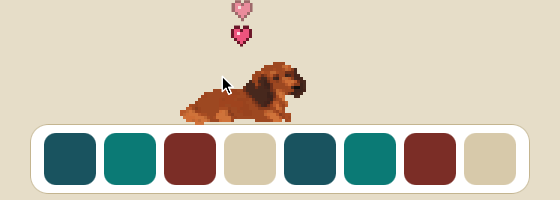
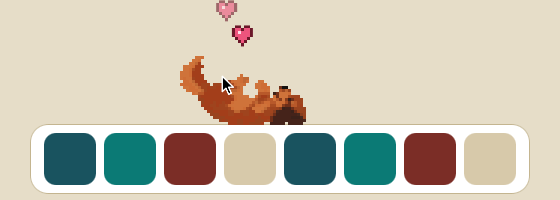
Web a README na verzi 1.0.3 (0,8 MB, novy SHA-256)
Na webu nove karty Listi na podzim a Snih v zime (GIFy listi, zavej),
hlazeni s valenim na zadech (novy GIF a texty). V README padani listi
a snehu. Pushnout az po zverejneni vydani 1.0.3 na GitHubu.

Changed region(s): [[0.3036, 0.27, 0.5464, 0.63], [0.3643, 0.0, 0.4554, 0.24]]

diff --git a/docs/cs/index.html b/docs/cs/index.html
@@ -4,7 +4,7 @@
 <meta charset="utf-8">
 <meta name="viewport" content="width=device-width, initial-scale=1">
 <title>Julie – pixelový jezevčík na Dock tvého Macu, zdarma</title>
-<meta name="description" content="Julie je desktopový mazlíček pro macOS zdarma a s otevřeným kódem: pixelová jezevčice, která chodí po Docku, hrabe nory, aportuje, honí veverky a spí v pelíšku. Reaguje na Claude Code. 0,7 MB, bez internetu.">
+<meta name="description" content="Julie je desktopový mazlíček pro macOS zdarma a s otevřeným kódem: pixelová jezevčice, která chodí po Docku, hrabe nory, aportuje, honí veverky a spí v pelíšku. Reaguje na Claude Code. 0,8 MB, bez internetu.">
 <link rel="canonical" href="https://hlaska18.github.io/Julie/cs/">
 <link rel="alternate" hreflang="en" href="https://hlaska18.github.io/Julie/">
 <link rel="alternate" hreflang="cs" href="https://hlaska18.github.io/Julie/cs/">
@@ -34,8 +34,8 @@
   "description": "Desktopový mazlíček pro macOS zdarma, s otevřeným kódem: pixelová jezevčice, která chodí po Docku.",
   "applicationCategory": "DesktopEnhancementApplication",
   "operatingSystem": "macOS 12 nebo novější",
-  "softwareVersion": "1.0.2",
-  "fileSize": "0,7 MB",
+  "softwareVersion": "1.0.3",
+  "fileSize": "0,8 MB",
   "downloadUrl": "https://github.com/hlaska18/Julie/releases/latest/download/Julie.dmg",
   "url": "https://hlaska18.github.io/Julie/cs/",
   "image": "https://hlaska18.github.io/Julie/img/og-cs.png",
@@ -78,7 +78,7 @@
 <a href="https://github.com/hlaska18/Julie"><b>Zdrojový kód na GitHubu</b></a>
 </div>
 <p class="need">Potřebuje macOS 12 nebo novější a Dock dole na obrazovce, ne automaticky skrývaný.</p>
-<p class="meta">Verze 1.0.2 · 0,7 MB · Apple Silicon i Intel · čeština, English, Deutsch, slovenčina, polski</p>
+<p class="meta">Verze 1.0.3 · 0,8 MB · Apple Silicon i Intel · čeština, English, Deutsch, slovenčina, polski</p>
 </div>
 <div class="hero-art">
 <div class="win">
@@ -110,10 +110,10 @@
 <div class="shot">
 <picture>
 <source srcset="../ukazky/hlazeni.png" media="(prefers-reduced-motion: reduce)">
-<img class="px" src="../ukazky/hlazeni.gif" width="560" height="200" loading="lazy" alt="Kurzor hladí Julii po hřbetě; lehne si, vyletí srdíčka a pak vstane a otřepe se">
+<img class="px" src="../ukazky/hlazeni.gif" width="560" height="200" loading="lazy" alt="Kurzor hladí Julii po hřbetě; převalí se na záda s tlapkami nahoru, vyletí srdíčka a pak vstane a otřepe se">
 </picture>
 </div>
-<p>Přejížděj kurzorem po Julii sem a tam. Lehne si, vyletí srdíčka, a když přestaneš, vstane a otřepe se.</p>
+<p>Přejížděj kurzorem po Julii sem a tam. Převalí se na záda a vrtí se, vyletí srdíčka, a když přestaneš, převalí se zpátky a otřepe se.</p>
 </article>
 
 <article class="win">
@@ -170,6 +170,28 @@
 </div>
 <p>Objeví se veverka a Julie za ní vystřelí s vyplazeným jazykem. Jindy prší pamlsky nebo ji vynesou tři balónky, které postupně prasknou.</p>
 </article>
+
+<article class="win">
+<h3 class="bar">Listí na podzim</h3>
+<div class="shot">
+<picture>
+<source srcset="../ukazky/listi.png" media="(prefers-reduced-motion: reduce)">
+<img class="px" src="../ukazky/listi.gif" width="560" height="200" loading="lazy" alt="Julie dojde k hromádce barevného listí na Docku, očichá ji a skočí do ní, listí se rozletí; pak vyskočí a otřepe se">
+</picture>
+</div>
+<p>Od září do listopadu leží u pelíšku na Docku hromádka listí. Párkrát za den ji Julie očichá a skočí do ní. Občas listí padá a Julie po něm chňape.</p>
+</article>
+
+<article class="win">
+<h3 class="bar">Sníh v zimě</h3>
+<div class="shot">
+<picture>
+<source srcset="../ukazky/zavej.png" media="(prefers-reduced-motion: reduce)">
+<img class="px" src="../ukazky/zavej.gif" width="560" height="200" loading="lazy" alt="Julie se zanoří hlavou napřed do závěje na Docku, až kouká jen vrtící se ocas; pak vyleze a otřepe sníh">
+</picture>
+</div>
+<p>Od prosince do února je tam místo listí závěj. Julie se do ní zanoří, až kouká jen vrtící se ocas. Občas sněží. Na jižní polokouli jsou roční období obráceně.</p>
+</article>
 </div>
 
 <article class="win row">
@@ -216,7 +238,7 @@
 <div class="why">
 <h3>Proč Julie není notarizovaná?</h3>
 <p>Notarizace potřebuje placený vývojářský účet u Applu (99 USD ročně). Julie je zdarma a vzniká ve volném čase, proto je podepsaná jen ad hoc. Její kód je otevřený: můžeš si ho přečíst na <a href="https://github.com/hlaska18/Julie">GitHubu</a> nebo si ji sestavit sám příkazem <code>./build.sh</code>.</p>
-<p>SHA-256 souboru Julie.dmg (verze 1.0.2): <code class="hash">f0c52fec324a27749f85338b2a6ecef0467867f6f2dca648fe8009cc5155ce66</code></p>
+<p>SHA-256 souboru Julie.dmg (verze 1.0.3): <code class="hash">456044e167553b61ce7bb85ab2eff52f21a98cd8491d923736d82ce990ea42fc</code></p>
 <h3>Odinstalace</h3>
 <p>V nabídce pod kostičkou: Nastavení → Odpojit od Claude Code (pokud jsi ho propojil), Nastavení → vypni Spouštět po přihlášení, pak Konec. Julii přetáhni z Aplikací do Koše a smaž složku <code>~/.jezevcik</code>.</p>
 </div>
@@ -246,7 +268,7 @@
 <img class="px" src="../img/spi.png" alt="" width="190" height="70">
 <h2 id="zaver">Na tvém Docku je místo pro psa.</h2>
 <a class="px-btn" href="https://github.com/hlaska18/Julie/releases/latest/download/Julie.dmg">Stáhnout pro Mac</a>
-<p>Zdarma. Verze 1.0.2, 0,7 MB. <a href="https://github.com/hlaska18/Julie/releases">Všechna vydání</a></p>
+<p>Zdarma. Verze 1.0.3, 0,8 MB. <a href="https://github.com/hlaska18/Julie/releases">Všechna vydání</a></p>
 </div>
 </section>
 

diff --git a/docs/index.html b/docs/index.html
@@ -4,7 +4,7 @@
 <meta charset="utf-8">
 <meta name="viewport" content="width=device-width, initial-scale=1">
 <title>Julie – a free pixel dachshund desktop pet for your Mac Dock</title>
-<meta name="description" content="Julie is a free desktop pet for macOS with open-source code: a pixel-art dachshund who walks on your Dock, digs burrows, fetches, chases squirrels and naps in her bed. Reacts to Claude Code. 0.7 MB, no network.">
+<meta name="description" content="Julie is a free desktop pet for macOS with open-source code: a pixel-art dachshund who walks on your Dock, digs burrows, fetches, chases squirrels and naps in her bed. Reacts to Claude Code. 0.8 MB, no network.">
 <link rel="canonical" href="https://hlaska18.github.io/Julie/">
 <link rel="alternate" hreflang="en" href="https://hlaska18.github.io/Julie/">
 <link rel="alternate" hreflang="cs" href="https://hlaska18.github.io/Julie/cs/">
@@ -37,8 +37,8 @@
   "description": "A free pixel-art dachshund desktop pet with open-source code that walks on the macOS Dock.",
   "applicationCategory": "DesktopEnhancementApplication",
   "operatingSystem": "macOS 12 or later",
-  "softwareVersion": "1.0.2",
-  "fileSize": "0.7 MB",
+  "softwareVersion": "1.0.3",
+  "fileSize": "0.8 MB",
   "downloadUrl": "https://github.com/hlaska18/Julie/releases/latest/download/Julie.dmg",
   "url": "https://hlaska18.github.io/Julie/",
   "image": "https://hlaska18.github.io/Julie/img/og.png",
@@ -81,7 +81,7 @@
 <a href="https://github.com/hlaska18/Julie"><b>Source on GitHub</b></a>
 </div>
 <p class="need">Needs macOS 12 or later and the Dock at the bottom of the screen, not auto-hidden.</p>
-<p class="meta">Version 1.0.2 · 0.7 MB · Apple Silicon and Intel · English, Čeština, Deutsch, Slovenčina, Polski</p>
+<p class="meta">Version 1.0.3 · 0.8 MB · Apple Silicon and Intel · English, Čeština, Deutsch, Slovenčina, Polski</p>
 </div>
 <div class="hero-art">
 <div class="win">
@@ -113,10 +113,10 @@
 <div class="shot">
 <picture>
 <source srcset="ukazky/hlazeni.png" media="(prefers-reduced-motion: reduce)">
-<img class="px" src="ukazky/hlazeni.gif" width="560" height="200" loading="lazy" alt="The cursor strokes Julie's back; she lies down, little hearts float up, and afterwards she gets up and shakes herself">
+<img class="px" src="ukazky/hlazeni.gif" width="560" height="200" loading="lazy" alt="The cursor strokes Julie's back; she rolls onto her back with her paws in the air, little hearts float up, and afterwards she gets up and shakes herself">
 </picture>
 </div>
-<p>Move the cursor back and forth over her. She lies down, hearts float up, and when you stop she gets up and shakes herself.</p>
+<p>Move the cursor back and forth over her. She rolls onto her back and wriggles, hearts float up, and when you stop she rolls back and shakes herself.</p>
 </article>
 
 <article class="win">
@@ -173,6 +173,28 @@
 </div>
 <p>A squirrel shows up and Julie sprints after it, tongue out. Or it rains treats, or three balloons lift her up and pop one by one.</p>
 </article>
+
+<article class="win">
+<h3 class="bar">Leaves in autumn</h3>
+<div class="shot">
+<picture>
+<source srcset="ukazky/listi.png" media="(prefers-reduced-motion: reduce)">
+<img class="px" src="ukazky/listi.gif" width="560" height="200" loading="lazy" alt="Julie walks to a pile of colourful leaves on the Dock, sniffs it, jumps in so the leaves fly up, then hops out and shakes herself">
+</picture>
+</div>
+<p>From September to November a pile of leaves lies on the Dock by her bed. A few times a day she sniffs it and jumps right in. Now and then leaves drift down and she snaps at them.</p>
+</article>
+
+<article class="win">
+<h3 class="bar">Snow in winter</h3>
+<div class="shot">
+<picture>
+<source srcset="ukazky/zavej.png" media="(prefers-reduced-motion: reduce)">
+<img class="px" src="ukazky/zavej.gif" width="560" height="200" loading="lazy" alt="Julie dives head first into a snowdrift on the Dock until only her wagging tail sticks out, then climbs out and shakes off the snow">
+</picture>
+</div>
+<p>From December to February there is a snowdrift instead. She dives in until only her wagging tail sticks out. Sometimes it snows. In the southern hemisphere the seasons are the other way round.</p>
+</article>
 </div>
 
 <article class="win row">
@@ -219,7 +241,7 @@
 <div class="why">
 <h3>Why isn't Julie notarized?</h3>
 <p>Notarization needs a paid Apple developer account (99 USD a year). Julie is a free project made in spare time, so she's only signed ad hoc. Her code is open: you can read it on <a href="https://github.com/hlaska18/Julie">GitHub</a> or build her yourself with <code>./build.sh</code>.</p>
-<p>SHA-256 of Julie.dmg (version 1.0.2): <code class="hash">f0c52fec324a27749f85338b2a6ecef0467867f6f2dca648fe8009cc5155ce66</code></p>
+<p>SHA-256 of Julie.dmg (version 1.0.3): <code class="hash">456044e167553b61ce7bb85ab2eff52f21a98cd8491d923736d82ce990ea42fc</code></p>
 <h3>Uninstall</h3>
 <p>In the bone menu: Settings → Disconnect from Claude Code (if you connected it), Settings → turn off Start at login, then Quit. Drag Julie from Applications to the Trash and delete the folder <code>~/.jezevcik</code>.</p>
 </div>
@@ -249,7 +271,7 @@
 <img class="px" src="img/spi.png" alt="" width="190" height="70">
 <h2 id="final">Your Dock has room for a dog.</h2>
 <a class="px-btn" href="https://github.com/hlaska18/Julie/releases/latest/download/Julie.dmg">Download for Mac</a>
-<p>Free. Version 1.0.2, 0.7 MB. <a href="https://github.com/hlaska18/Julie/releases">All releases</a></p>
+<p>Free. Version 1.0.3, 0.8 MB. <a href="https://github.com/hlaska18/Julie/releases">All releases</a></p>
 </div>
 </section>
 

diff --git a/tools/ukazky.py b/tools/ukazky.py
@@ -17,7 +17,7 @@ KOREN = os.path.dirname(os.path.dirname(os.path.abspath(__file__)))
 CIL = os.path.join(KOREN, "docs", "ukazky")
 FPS = 25
 # klidový snímek: kolikátá vteřina scény
-KLID = {"chuze": 3.9, "nora": 2.0, "pamlsky": 3.0, "micek": 2.6, "pelisek": 4.0, "padak": 1.5, "veverka": 2.2, "hlazeni": 3.0, "listi": 6.0, "zavej": 7.0, "padlisti": 9.0, "snezi": 9.0}
+KLID = {"chuze": 3.9, "nora": 2.0, "pamlsky": 3.0, "micek": 2.6, "pelisek": 4.0, "padak": 1.5, "veverka": 2.2, "hlazeni": 3.0, "listi": 4.6, "zavej": 5.2, "padlisti": 9.0, "snezi": 9.0}
 
 
 def gif(sc, slozka):

diff --git a/README.cs.md b/README.cs.md
@@ -8,7 +8,7 @@ Desktopový mazlíček podle Clawda, ale jezevčík – Karlova fenka Julie. Swi
 (stačí Command Line Tools). Julie nemluví, nemá bubliny. Nabídka je v pěti jazycích
 (čeština, angličtina, němčina, slovenština, polština; podle systému, přepnout v Nastavení).
 
-**[Stáhnout Julii pro Mac (DMG, 0,7 MB)](https://github.com/hlaska18/Julie/releases/latest/download/Julie.dmg)**
+**[Stáhnout Julii pro Mac (DMG, 0,8 MB)](https://github.com/hlaska18/Julie/releases/latest/download/Julie.dmg)**
 · [web](https://hlaska18.github.io/Julie/cs/) · [všechna vydání](https://github.com/hlaska18/Julie/releases)
 
 ![Julie jde po Docku, čuchá, štěká, sedne si a protáhne se](docs/ukazky/chuze.gif)
@@ -20,7 +20,7 @@ Desktopový mazlíček podle Clawda, ale jezevčík – Karlova fenka Julie. Swi
    (nebo v Terminálu `xattr -dr com.apple.quarantine /Applications/Julie.app`).
 3. Úvodní okno ukáže ovládání a nabídne spouštění po přihlášení.
 
-Vyžaduje macOS 12+, Apple Silicon i Intel. Vydání: `./release.sh 1.0.2` → `dist/Julie.dmg` a `dist/Julie.zip`
+Vyžaduje macOS 12+, Apple Silicon i Intel. Vydání: `./release.sh 1.0.3` → `dist/Julie.dmg` a `dist/Julie.zip`
 (univerzální aplikace; před zabalením proběhne samotest; disk v DMG má ikonu Julie v krabici z
 `art/dmg_ikona.png`, kreslí ji `art/dmg_ikona.py`). Soubory mají **stálé názvy**, takže odkazy
 `releases/latest/download/Julie.dmg` na webu i v README se nemění. Při novém vydání na webu
@@ -74,7 +74,7 @@ hrabe noru (očichá, hrabe – tlapky se střídají, hlína letí dozadu na ku
 napřed a vyleze jinde přímo z díry). Pelíšek vedle Docku (spí v klubíčku), pamlsky, míček (aport),
 veverka (sprint s vyplazeným jazykem), balónky, hlazení, denní režim. Roční období jako u skutečné
 Julie: na podzim leží na Docku hromádka listí a Julie do ní párkrát za den skočí, v zimě se zanoří
-do závěje, až kouká jen vrtící se ocas; na jaře víc chodí, v létě v poledne víc leží (na jižní
+do závěje, až kouká jen vrtící se ocas; občas padá listí nebo sníh a Julie po něm chňape; na jaře víc chodí, v létě v poledne víc leží (na jižní
 polokouli obráceně; vypíná se s darebáctvím). Po návratu k Macu (odemčení
 nebo probuzení po aspoň 15 minutách) přivítá: štěkne, přiběhne pod kurzor a zapanáčkuje (vypnout
 v Nastavení „Vítat mě po návratu k Macu“).

diff --git a/README.md b/README.md
@@ -10,7 +10,7 @@ on top of your Dock. She is modelled on a real dog called Julie. Inspired by
 
 She never talks – no speech bubbles, just a dog being a dog.
 
-**[Download Julie for Mac (DMG, 0.7 MB)](https://github.com/hlaska18/Julie/releases/latest/download/Julie.dmg)**
+**[Download Julie for Mac (DMG, 0.8 MB)](https://github.com/hlaska18/Julie/releases/latest/download/Julie.dmg)**
 · [website](https://hlaska18.github.io/Julie/) · [all releases](https://github.com/hlaska18/Julie/releases)
 
 ![Julie walks along the Dock, sniffs, barks, sits and stretches](docs/ukazky/chuze.gif)
@@ -36,6 +36,7 @@ More animations (burrow, treats, fetch, bed, parachute, squirrel) are on the [we
 - day mode: sleepier in the evening and at night, livelier in the morning
 - seasons, like the real Julie: in autumn a pile of leaves lies on the Dock and she jumps into it
   a few times a day; in winter she dives into a snowdrift until only her wagging tail sticks out;
+  now and then leaves or snowflakes drift down and she snaps at them;
   more walks in spring, more lying around at midday in summer (southern hemisphere: the other way round)
 - optional: reacts to [Claude Code](https://claude.com/claude-code) (sits while it thinks, digs while
   it runs commands, barks when it is waiting for you, jumps when it is done)
@@ -77,7 +78,7 @@ Julie falls back to checking window sizes.
 Needs only the Command Line Tools (`xcode-select --install`), Python 3 with Pillow for the art scripts.
 
     ./build.sh          # builds and installs into ~/Applications
-    ./release.sh 1.0.2  # universal app + dist/Julie.dmg and Julie.zip (runs the self-test first)
+    ./release.sh 1.0.3  # universal app + dist/Julie.dmg and Julie.zip (runs the self-test first)
     ~/Applications/Julie.app/Contents/MacOS/Julie --test   # self-test without a screen
     python3 tools/ukazky.py     # records the GIFs in docs/ukazky from the real app (no screen recording)
     python3 tools/web_obrazky.py   # icons and sharing images for the website in docs/
